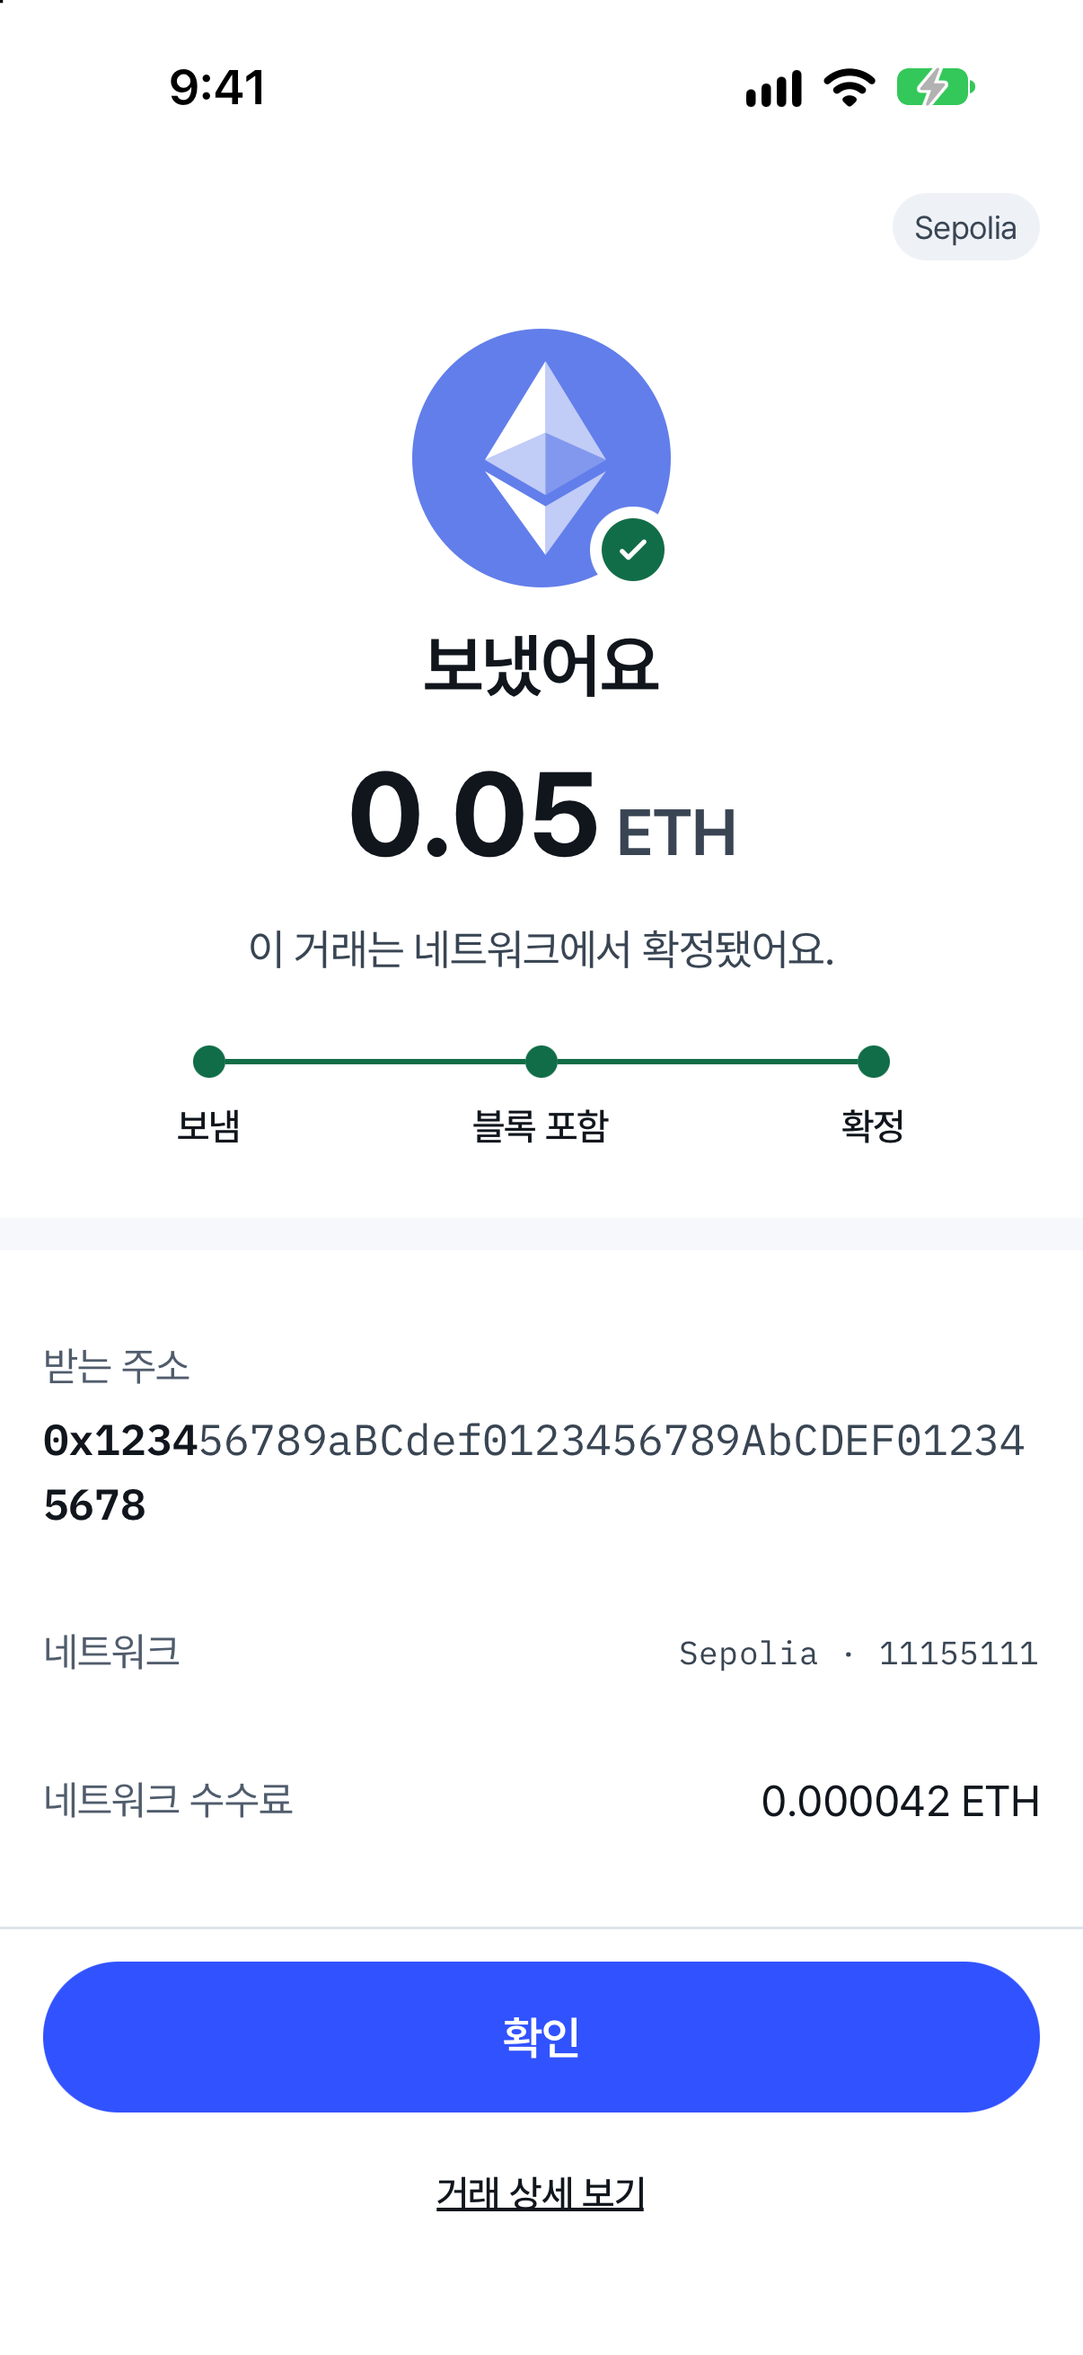
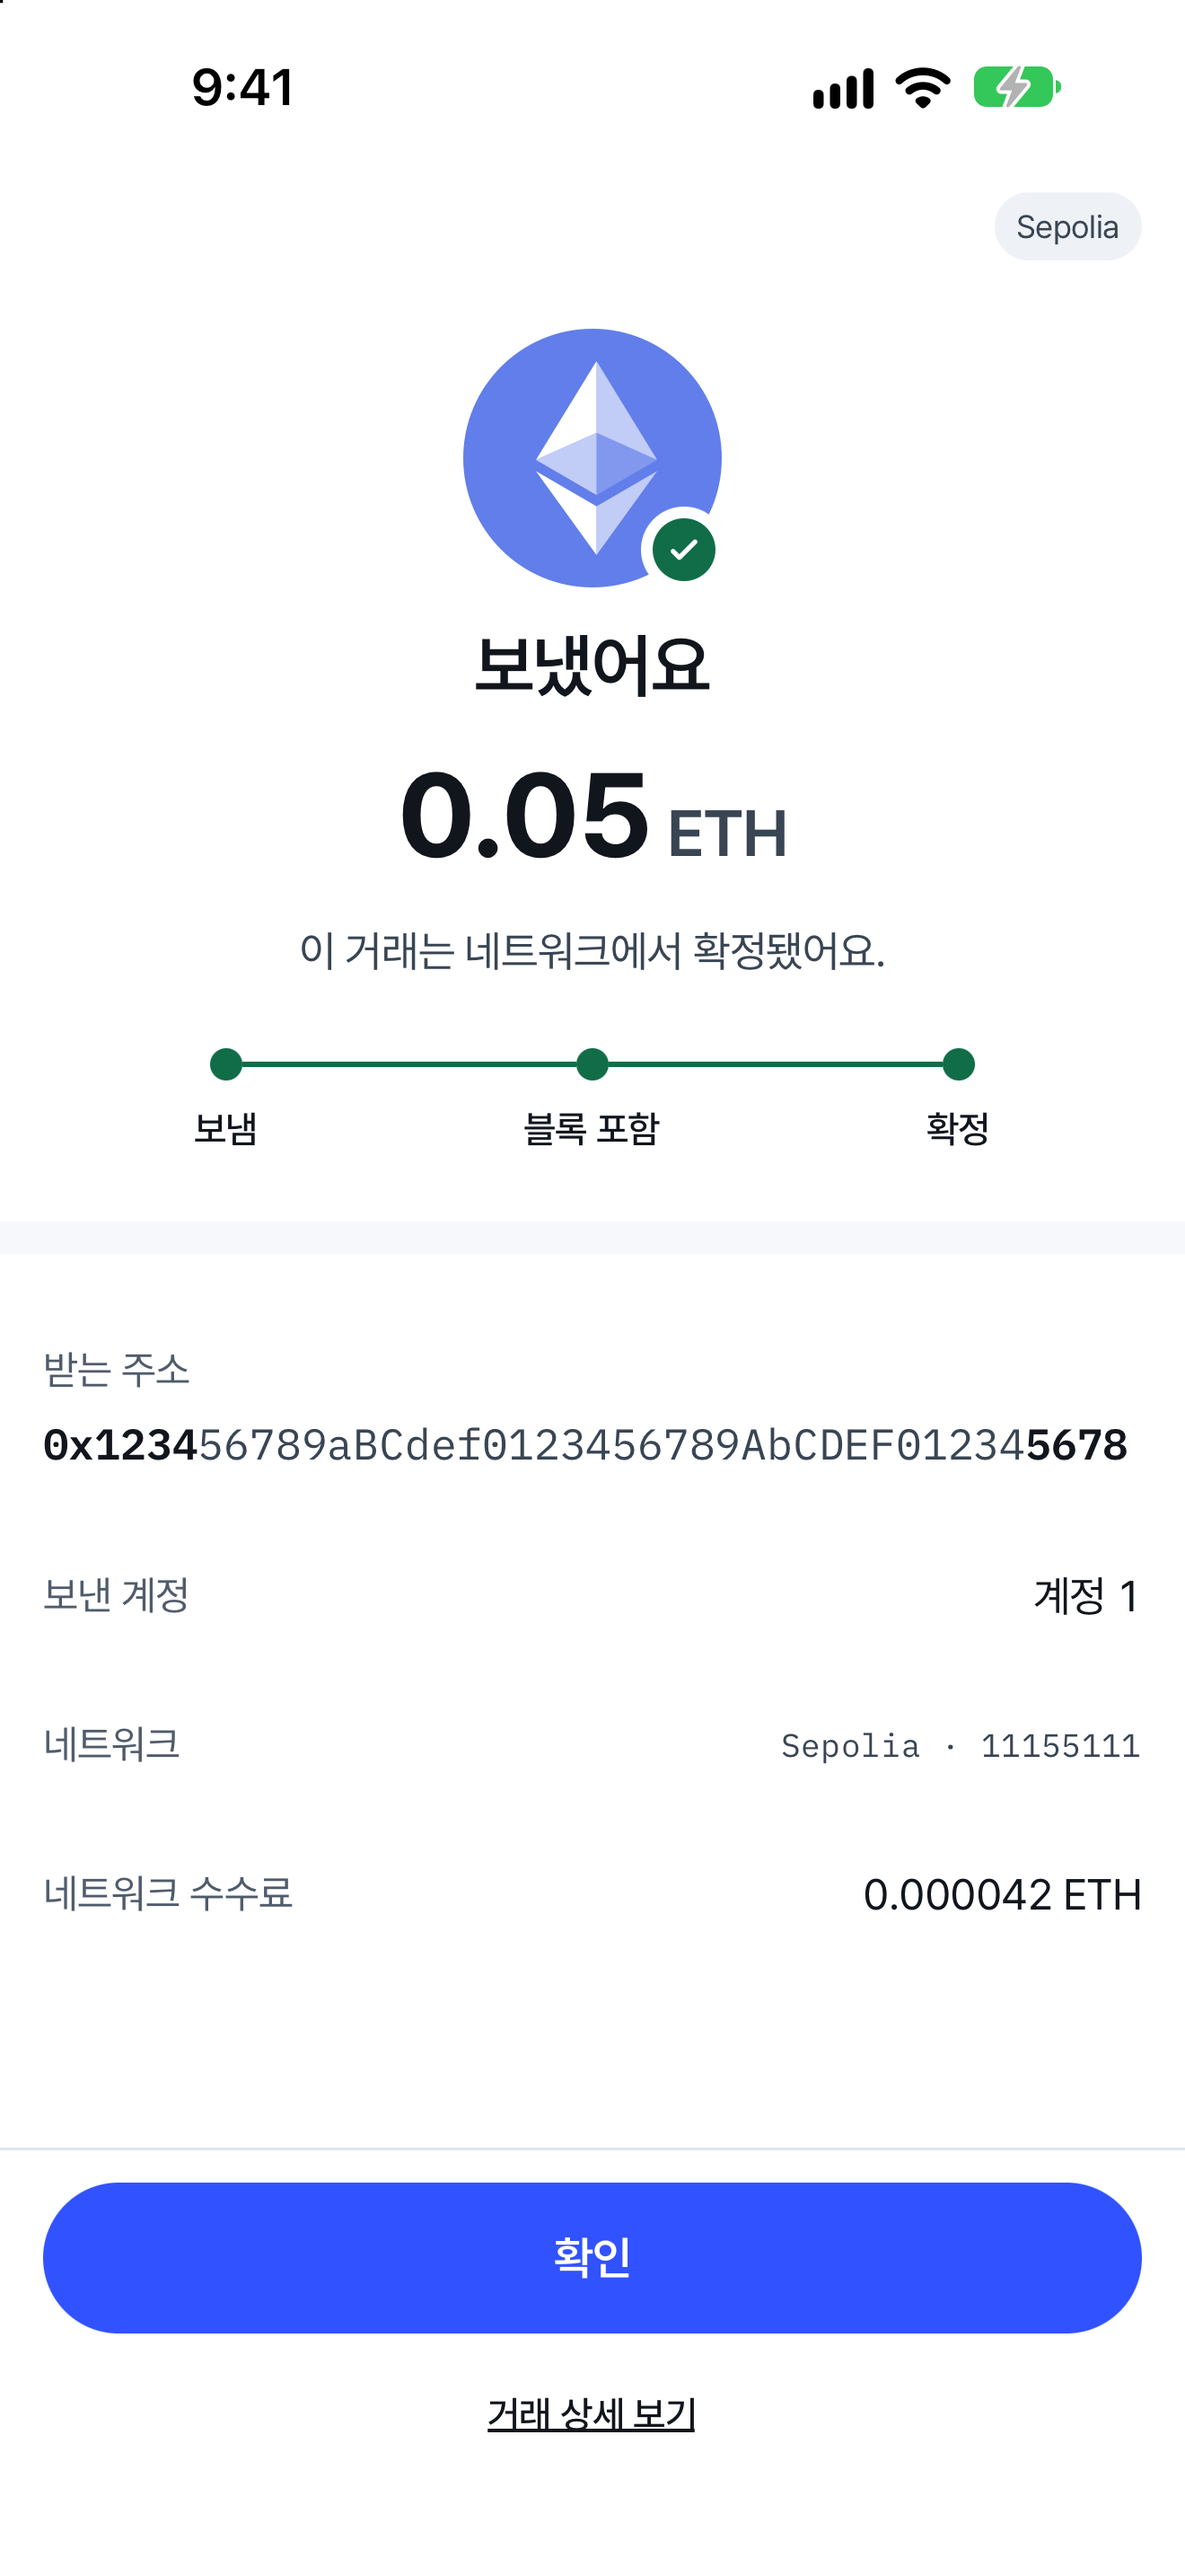
feat(mobile): save the sending account in the send record; S23/S41 show it (#32) (#155)
* feat(mobile): save the sending account in the send record; S23 and S41 read it (#32)

* refactor(mobile): keep only the account index in the send record (#32)

---------

diff --git a/apps/mobile/src/pages/activity/detail.tsx b/apps/mobile/src/pages/activity/detail.tsx
@@ -3,7 +3,7 @@ import { Redirect, useLocalSearchParams, useRouter } from 'expo-router'
 import { useState } from 'react'
 import { Linking, Pressable, View } from 'react-native'
 import { useTranslation } from 'react-i18next'
-import { account, networkFact } from '@/entities/account'
+import { networkFact } from '@/entities/account'
 import { demoTx } from '@/entities/transaction'
 import type { TxState } from '@/features/send'
 import { clearTestTx, isFinal, isPolled, resultCopy, txView, useTrackedTx, writePendingTx } from '@/features/send'
@@ -37,7 +37,7 @@ const hhmm = (at: number) => new Date(at).toTimeString().slice(0, 5)
 /**
  * B-S41 거래 상세 for the send in the kv. State comes from the chain (ARCHITECTURE.md#invariants): receipt + `safe` block = Confirmed or Failed.
  * Hero shares the S23 copy (`resultCopy`); a send the fake adapter never broadcast is a test send ("테스트 거래예요", state "예시", no fee row, 테스트 거래 지우기 with a confirm sheet).
- * Blocks: 받는 주소 / 거래 정보 (시각, 상태, 보낸 계정, 네트워크, 네트워크 수수료) / 거래 해시 + Etherscan row (real network only). 상태 다시 확인 asks the chain; a Pending or Included send is also re-checked every 15 s while focused.
+ * Blocks: 받는 주소 / 거래 정보 (시각, 상태, 보낸 계정 from the record — hidden for a record saved before #32, 네트워크, 네트워크 수수료) / 거래 해시 + Etherscan row (real network only). 상태 다시 확인 asks the chain; a Pending or Included send is also re-checked every 15 s while focused.
  * `?demo=<state>` (+ `&real=1`, `&err=1`, `&sheet=1`) is a __DEV__ capture override: a synthetic send in that state.
  */
 export function TxDetailPage() {
@@ -114,7 +114,9 @@ export function TxDetailPage() {
         <SummaryRow label={t('detail.time')} fact value={factTime(tx.createdAt)} />
         <SummaryRow label={t('result.statusLabel')} value={stateWord} />
         <SummaryRow format="address" plain fact label={t('detail.hashTitle')} value={tx.hash} />
-        <SummaryRow label={t('detail.sender')} value={account.name} />
+        {tx.accountIndex !== undefined ? (
+          <SummaryRow label={t('detail.sender')} value={t('detail.accountName', { n: tx.accountIndex + 1 })} />
+        ) : null}
         <SummaryRow label={t('result.network')} fact value={networkFact} />
         {tx.blockNumber !== undefined && !test ? (
           <SummaryRow label={t('detail.block')} fact value={String(tx.blockNumber).replace(/\B(?=(\d{3})+$)/g, ',')} />

diff --git a/apps/mobile/src/pages/send/result.tsx b/apps/mobile/src/pages/send/result.tsx
@@ -1,4 +1,4 @@
-// Figma: B-S23 Send result (Pending 423:15795, Included 423:15852, Confirmed 423:15909, Failed 423:15959 + Reason, Unknown 423:16009, Replaced 423:16059, Pending test mode)
+// Figma: B-S23 Send result (Pending 423:15795, Included 423:15852, Confirmed 423:15909, Failed 423:15959 + Reason, Unknown 423:16009, Replaced 423:16059, Pending test mode; 보낸 계정 row 723:5774)
 import { useFocusEffect, useLocalSearchParams, useRouter } from 'expo-router'
 import { useCallback, useEffect, useRef } from 'react'
 import { Redirect } from 'expo-router'
@@ -29,6 +29,7 @@ import { NetworkChips } from '@/widgets/network-chips'
  * B-S23 보내기 결과: a centered end moment (asset logo + status badge, headline, Figure amount, sentence), the 보냄 -> 블록 포함 -> 확정 progress for Pending / Included / Confirmed only,
  * then a band and flat detail rows. Fee label: "예상 네트워크 수수료" until the network has it, "네트워크 수수료" once included. Replaced has no fee row.
  * A send the fake adapter never put on the network is a test send: "테스트 거래예요", no progress, no warning line, no fee (the chip says it too).
+ * 보낸 계정 comes from the record (`accountIndex`, saved at send time); a record saved before #32 has none and the row is hidden.
  * A failure reason line shows only when the record carries a confirmed reason (`failReason`). Success and failure give a haptic once.
  * Reads the kv pending record and re-checks it every 15 s while focused. `?demo=<state>` (+ `&reason=gas`; `&real=1` shows the real-chain variant) is a __DEV__ capture override: a synthetic send in that state.
  */
@@ -134,6 +135,9 @@ export function SendResultPage() {
       <Block>
         {!test && copy.warn ? <StatusNotice tone="warning" title={t(copy.warn)} /> : null}
         <SummaryRow format="address" label={t('result.recipient')} value={tx.to} />
+        {tx.accountIndex !== undefined ? (
+          <SummaryRow label={t('detail.sender')} value={t('detail.accountName', { n: tx.accountIndex + 1 })} />
+        ) : null}
         <SummaryRow label={t('result.network')} fact value={networkFact} />
         {showFee ? <SummaryRow label={t(feeLabel)} value={`${tx.fee ?? '—'} ETH`} /> : null}
       </Block>

diff --git a/apps/mobile/test/storage.test.ts b/apps/mobile/test/storage.test.ts
@@ -194,6 +194,25 @@ describe('kv key + store', () => {
     expect(kv.parsePendingTx(JSON.stringify({ hash: 'x' }))).toBeNull()
   })
 
+  it('pending tx keeps the sending account index; a record saved before it (or a bad one) has none', async () => {
+    const kv = await import('../src/shared/storage/kv')
+    const tx = {
+      hash: '0xabc',
+      nonce: 3,
+      asset: 'ETH',
+      to: '0xdef',
+      amount: '0.1',
+      createdAt: 1,
+      lastCheckedAt: 2,
+      state: 'Pending' as const,
+    }
+    expect(kv.parsePendingTx(JSON.stringify({ ...tx, accountIndex: 0 }))).toEqual({ ...tx, accountIndex: 0 })
+    expect(kv.parsePendingTx(JSON.stringify(tx))).toEqual(tx)
+    expect(kv.parsePendingTx(JSON.stringify({ ...tx, accountIndex: -1 }))).toEqual(tx)
+    expect(kv.parsePendingTx(JSON.stringify({ ...tx, accountIndex: 1.5 }))).toEqual(tx)
+    expect(kv.parsePendingTx(JSON.stringify({ ...tx, accountIndex: null }))).toEqual(tx)
+  })
+
   it('a corrupt stored pending tx throws instead of reading as none', async () => {
     const kv = await import('../src/shared/storage/kv')
     await kv.openKv()

diff --git a/apps/mobile/src/shared/storage/kv.ts b/apps/mobile/src/shared/storage/kv.ts
@@ -89,6 +89,8 @@ export type PendingTx = {
   failReason?: 'outOfGas'
   /** Block of the receipt, once the network has one (S41 "블록" Fact row). */
   blockNumber?: number
+  /** Derivation index of the sending account, saved at send time (S23/S41 "보낸 계정" = 계정 index + 1). Records saved before #32 have none, and the row is hidden. */
+  accountIndex?: number
   state: 'Pending' | 'Unknown' | 'Included' | 'Confirmed' | 'Failed' | 'Replaced'
 }
 
@@ -128,6 +130,9 @@ export function parsePendingTx(raw: string): PendingTx | null {
     ...(isStr(o.fee) ? { fee: o.fee } : {}),
     ...(isNum(o.blockNumber) ? { blockNumber: o.blockNumber } : {}),
     ...(o.failReason === 'outOfGas' ? { failReason: 'outOfGas' as const } : {}),
+    ...(Number.isInteger(o.accountIndex) && (o.accountIndex as number) >= 0
+      ? { accountIndex: o.accountIndex as number }
+      : {}),
   }
 }
 

diff --git a/apps/mobile/src/features/send/model/runSend.ts b/apps/mobile/src/features/send/model/runSend.ts
@@ -1,4 +1,5 @@
 import { fromUnits, signAndSubmit, type Address, type ApprovedSend } from '@vaultme/wallet-core'
+import { ACCOUNT_INDEX } from '@/entities/account'
 import type { ChainPort } from '@/shared/chain'
 import type { AuthPrompt, LoadPhraseResult, PendingTx } from '@/shared/storage'
 
@@ -57,6 +58,7 @@ export async function runSend(
     createdAt: at,
     lastCheckedAt: at,
     fee: fromUnits(approved.estimatedFee, 'ETH'),
+    accountIndex: ACCOUNT_INDEX,
     state: result.status,
   }
   try {

diff --git a/packages/i18n/src/ko.ts b/packages/i18n/src/ko.ts
@@ -328,6 +328,8 @@ export const ko = {
   detail: {
     title: '거래 상세',
     sender: '보낸 계정',
+    /** Sending account name from the record's derivation index (n = index + 1). */
+    accountName: '계정 {{n}}',
     recipientTitle: '받는 주소',
     infoTitle: '거래 정보',
     time: '시각',

diff --git a/apps/mobile/src/entities/account/model.ts b/apps/mobile/src/entities/account/model.ts
@@ -1,0 +1,4 @@
+import { DERIVATION_PATH } from '@vaultme/wallet-core'
+
+/** Index of the account the wallet signs with: the last segment of its one derivation path (ADR-0002). "계정 1" = index 0. */
+export const ACCOUNT_INDEX = Number(DERIVATION_PATH.split('/').at(-1))

diff --git a/apps/mobile/src/entities/transaction/fixtures.ts b/apps/mobile/src/entities/transaction/fixtures.ts
@@ -74,5 +74,6 @@ export const demoTx = (state: PendingTx['state']): PendingTx => ({
   lastCheckedAt: Date.now(),
   fee: '0.000042',
   blockNumber: 5812044, // Figma S41 realchain example
+  accountIndex: 0,
   state,
 })

diff --git a/apps/mobile/test/send-flow.test.ts b/apps/mobile/test/send-flow.test.ts
@@ -73,6 +73,7 @@ describe('runSend', () => {
       fee: '0.000042',
       createdAt: 1000,
       lastCheckedAt: 1000,
+      accountIndex: 0,
     })
     expect(saved[0]!.hash).toMatch(/^0x[0-9a-f]{64}$/)
   })

diff --git a/apps/mobile/src/entities/account/index.ts b/apps/mobile/src/entities/account/index.ts
@@ -1,1 +1,2 @@
 export { account, networkFact } from './fixtures'
+export { ACCOUNT_INDEX } from './model'
